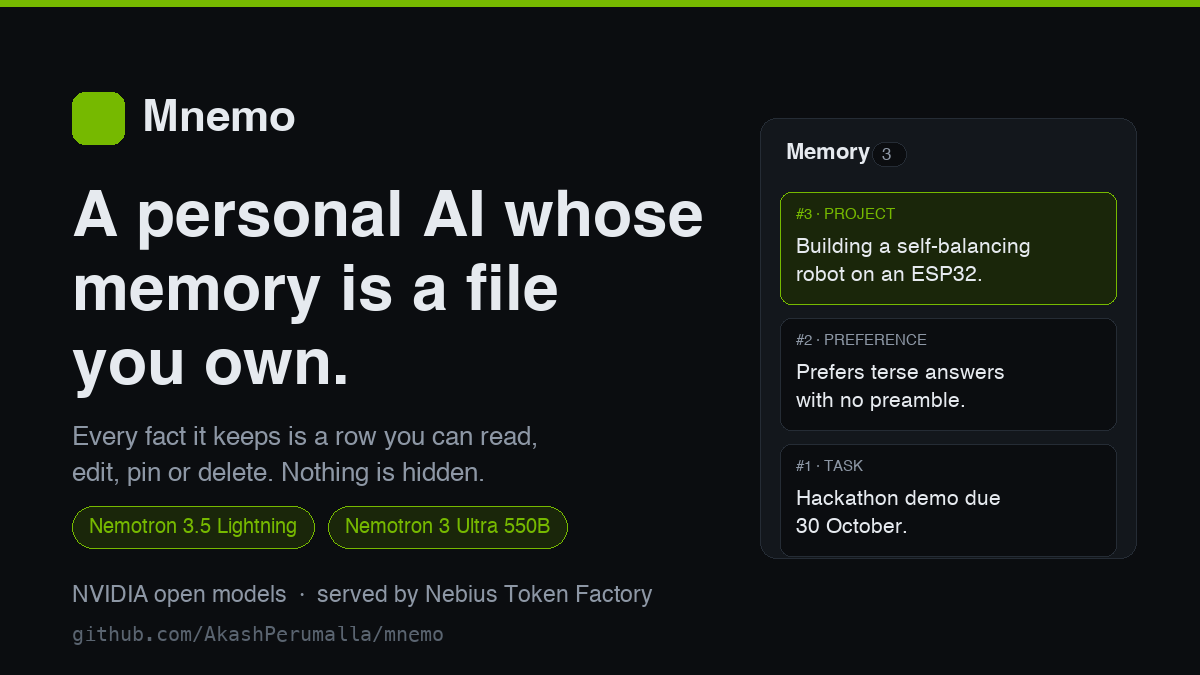
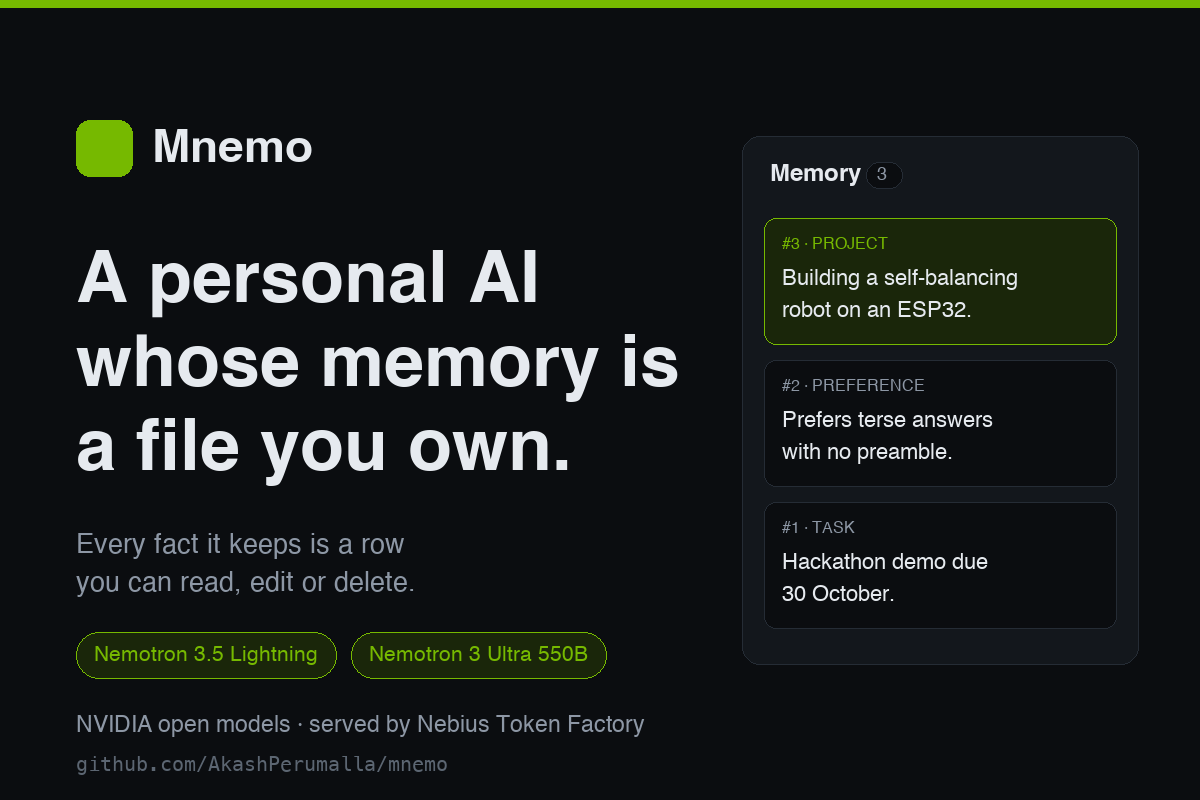
Rebuild the thumbnail at 3:2 for Devpost
Devpost takes JPG, PNG or GIF up to 5 MB and recommends 3:2. The card was
1200x675, which is 16:9, so it would have been cropped or letterboxed.
Now 1200x800 at 77 KB, with the extra vertical space going to the memory
pane so all three rows breathe.

diff --git a/scripts/make_thumbnail.py b/scripts/make_thumbnail.py
@@ -1,83 +1,100 @@
+"""Generate the project thumbnail.
+
+    python scripts/make_thumbnail.py
+
+Devpost wants JPG/PNG/GIF, 5 MB max, 3:2 for best results -- hence 1200x800.
+The headline auto-fits the column left of the memory pane rather than assuming
+a point size, so changing the wording cannot push it under the pane.
+"""
+
+from pathlib import Path
+
 from PIL import Image, ImageDraw, ImageFont
 
-W, H = 1200, 675
+W, H = 1200, 800                       # 3:2
 BG      = (11, 13, 16)
 SURFACE = (19, 23, 28)
 BORDER  = (37, 44, 53)
 TEXT    = (230, 234, 239)
 MUTED   = (141, 151, 165)
-ACCENT  = (118, 185, 0)      # NVIDIA green
+ACCENT  = (118, 185, 0)                # NVIDIA green
 SOFT    = (26, 38, 10)
 
 HEL = "/System/Library/Fonts/Helvetica.ttc"
 MEN = "/System/Library/Fonts/Menlo.ttc"
-def f(path, size, idx=0):
+
+
+def f(path: str, size: int, idx: int = 0) -> ImageFont.FreeTypeFont:
     return ImageFont.truetype(path, size, index=idx)
+
 
 img = Image.new("RGB", (W, H), BG)
 d = ImageDraw.Draw(img)
+d.rectangle([0, 0, W, 7], fill=ACCENT)
 
-# subtle top accent bar
-d.rectangle([0, 0, W, 6], fill=ACCENT)
+# ---- memory pane on the right: what the product actually is ----
+PX, PY, PW, PH = 742, 136, 396, 528
+d.rounded_rectangle([PX, PY, PX + PW, PY + PH], radius=18, fill=SURFACE, outline=BORDER)
+d.text((PX + 28, PY + 26), "Memory", font=f(HEL, 24, 1), fill=TEXT)
+d.rounded_rectangle([PX + 124, PY + 26, PX + 160, PY + 52], radius=13, fill=BG, outline=BORDER)
+d.text((PX + 135, PY + 30), "3", font=f(HEL, 18), fill=MUTED)
 
-# ---- left: the pitch ----
-x = 72
-d.rounded_rectangle([x, 92, x + 52, 144], radius=13, fill=ACCENT)
-d.text((x + 70, 97), "Mnemo", font=f(HEL, 44, 1), fill=TEXT)
+rows = [
+    ("#3 · PROJECT",    "Building a self-balancing", "robot on an ESP32.",   True),
+    ("#2 · PREFERENCE", "Prefers terse answers",     "with no preamble.",    False),
+    ("#1 · TASK",       "Hackathon demo due",        "30 October.",          False),
+]
+ry = PY + 82
+for tag, l1, l2, pinned in rows:
+    d.rounded_rectangle(
+        [PX + 22, ry, PX + PW - 22, ry + 126], radius=12,
+        fill=SOFT if pinned else BG, outline=ACCENT if pinned else BORDER,
+    )
+    d.text((PX + 40, ry + 18), tag, font=f(HEL, 16), fill=ACCENT if pinned else MUTED)
+    d.text((PX + 40, ry + 50), l1, font=f(HEL, 22), fill=TEXT)
+    d.text((PX + 40, ry + 82), l2, font=f(HEL, 22), fill=TEXT)
+    ry += 142
 
-# Fit the headline to the space left of the memory pane instead of guessing.
-MAXW = 760 - x - 48
-lines = ["A personal AI whose", "memory is a file", "you own."]
-size = 64
+# ---- the pitch on the left ----
+x = 76
+COL = PX - x - 56                      # room before the pane
+
+d.rounded_rectangle([x, 120, x + 56, 176], radius=14, fill=ACCENT)
+d.text((x + 76, 126), "Mnemo", font=f(HEL, 46, 1), fill=TEXT)
+
+lines = ["A personal AI", "whose memory is", "a file you own."]
+size = 72
 while size > 28:
     fnt = f(HEL, size, 1)
-    if max(d.textlength(l, font=fnt) for l in lines) <= MAXW:
+    if max(d.textlength(ln, font=fnt) for ln in lines) <= COL:
         break
     size -= 2
 fnt = f(HEL, size, 1)
-ly = 186
-for l in lines:
-    d.text((x, ly), l, font=fnt, fill=TEXT)
-    ly += int(size * 1.16)
-print(f"headline fitted at {size}px, widest {max(d.textlength(l, font=fnt) for l in lines):.0f}px / {MAXW}px")
+ly = 246
+for ln in lines:
+    d.text((x, ly), ln, font=fnt, fill=TEXT)
+    ly += int(size * 1.17)
 
-d.text((x, 424), "Every fact it keeps is a row you can read,", font=f(HEL, 26), fill=MUTED)
-d.text((x, 460), "edit, pin or delete. Nothing is hidden.", font=f(HEL, 26), fill=MUTED)
+sub_y = ly + 34
+d.text((x, sub_y), "Every fact it keeps is a row", font=f(HEL, 27), fill=MUTED)
+d.text((x, sub_y + 38), "you can read, edit or delete.", font=f(HEL, 27), fill=MUTED)
 
-# model chips
-chips = ["Nemotron 3.5 Lightning", "Nemotron 3 Ultra 550B"]
+chip_y = sub_y + 100
 cx = x
-for c in chips:
-    w = d.textlength(c, font=f(HEL, 20)) + 34
-    d.rounded_rectangle([cx, 506, cx + w, 548], radius=21, fill=SOFT, outline=ACCENT)
-    d.text((cx + 17, 517), c, font=f(HEL, 20), fill=ACCENT)
-    cx += w + 14
+for c in ("Nemotron 3.5 Lightning", "Nemotron 3 Ultra 550B"):
+    w = d.textlength(c, font=f(HEL, 21)) + 36
+    d.rounded_rectangle([cx, chip_y, cx + w, chip_y + 46], radius=23, fill=SOFT, outline=ACCENT)
+    d.text((cx + 18, chip_y + 12), c, font=f(HEL, 21), fill=ACCENT)
+    cx += w + 15
 
-d.text((x, 584), "NVIDIA open models  ·  served by Nebius Token Factory",
+d.text((x, chip_y + 82), "NVIDIA open models · served by Nebius Token Factory",
        font=f(HEL, 23), fill=MUTED)
-d.text((x, 622), "github.com/AkashPerumalla/mnemo", font=f(MEN, 20), fill=(90, 100, 112))
+d.text((x, chip_y + 120), "github.com/AkashPerumalla/mnemo",
+       font=f(MEN, 20), fill=(92, 102, 114))
 
-# ---- right: a stylised memory pane ----
-px, py, pw = 760, 118, 376
-d.rounded_rectangle([px, py, px + pw, py + 440], radius=16, fill=SURFACE, outline=BORDER)
-d.text((px + 26, py + 24), "Memory", font=f(HEL, 22, 1), fill=TEXT)
-d.rounded_rectangle([px + 112, py + 24, px + 146, py + 48], radius=12, fill=BG, outline=BORDER)
-d.text((px + 122, py + 28), "3", font=f(HEL, 17), fill=MUTED)
-
-rows = [
-    ("#3 · PROJECT", "Building a self-balancing", "robot on an ESP32.", True),
-    ("#2 · PREFERENCE", "Prefers terse answers", "with no preamble.", False),
-    ("#1 · TASK", "Hackathon demo due", "30 October.", False),
-]
-ry = py + 74
-for tag, l1, l2, pinned in rows:
-    fill = SOFT if pinned else BG
-    edge = ACCENT if pinned else BORDER
-    d.rounded_rectangle([px + 20, ry, px + pw - 20, ry + 112], radius=11, fill=fill, outline=edge)
-    d.text((px + 36, ry + 15), tag, font=f(HEL, 15), fill=ACCENT if pinned else MUTED)
-    d.text((px + 36, ry + 44), l1, font=f(HEL, 21), fill=TEXT)
-    d.text((px + 36, ry + 72), l2, font=f(HEL, 21), fill=TEXT)
-    ry += 126
-
-img.save("assets/thumbnail.png", "PNG")
-print("wrote assets/thumbnail.png", img.size)
+out = Path(__file__).resolve().parent.parent / "assets" / "thumbnail.png"
+out.parent.mkdir(exist_ok=True)
+img.save(out, "PNG", optimize=True)
+kb = out.stat().st_size / 1024
+print(f"{out.name}  {img.size[0]}x{img.size[1]}  ratio {img.size[0]/img.size[1]:.2f}:1  {kb:.0f} KB")
+print(f"headline fitted at {size}px (column {COL}px)")
